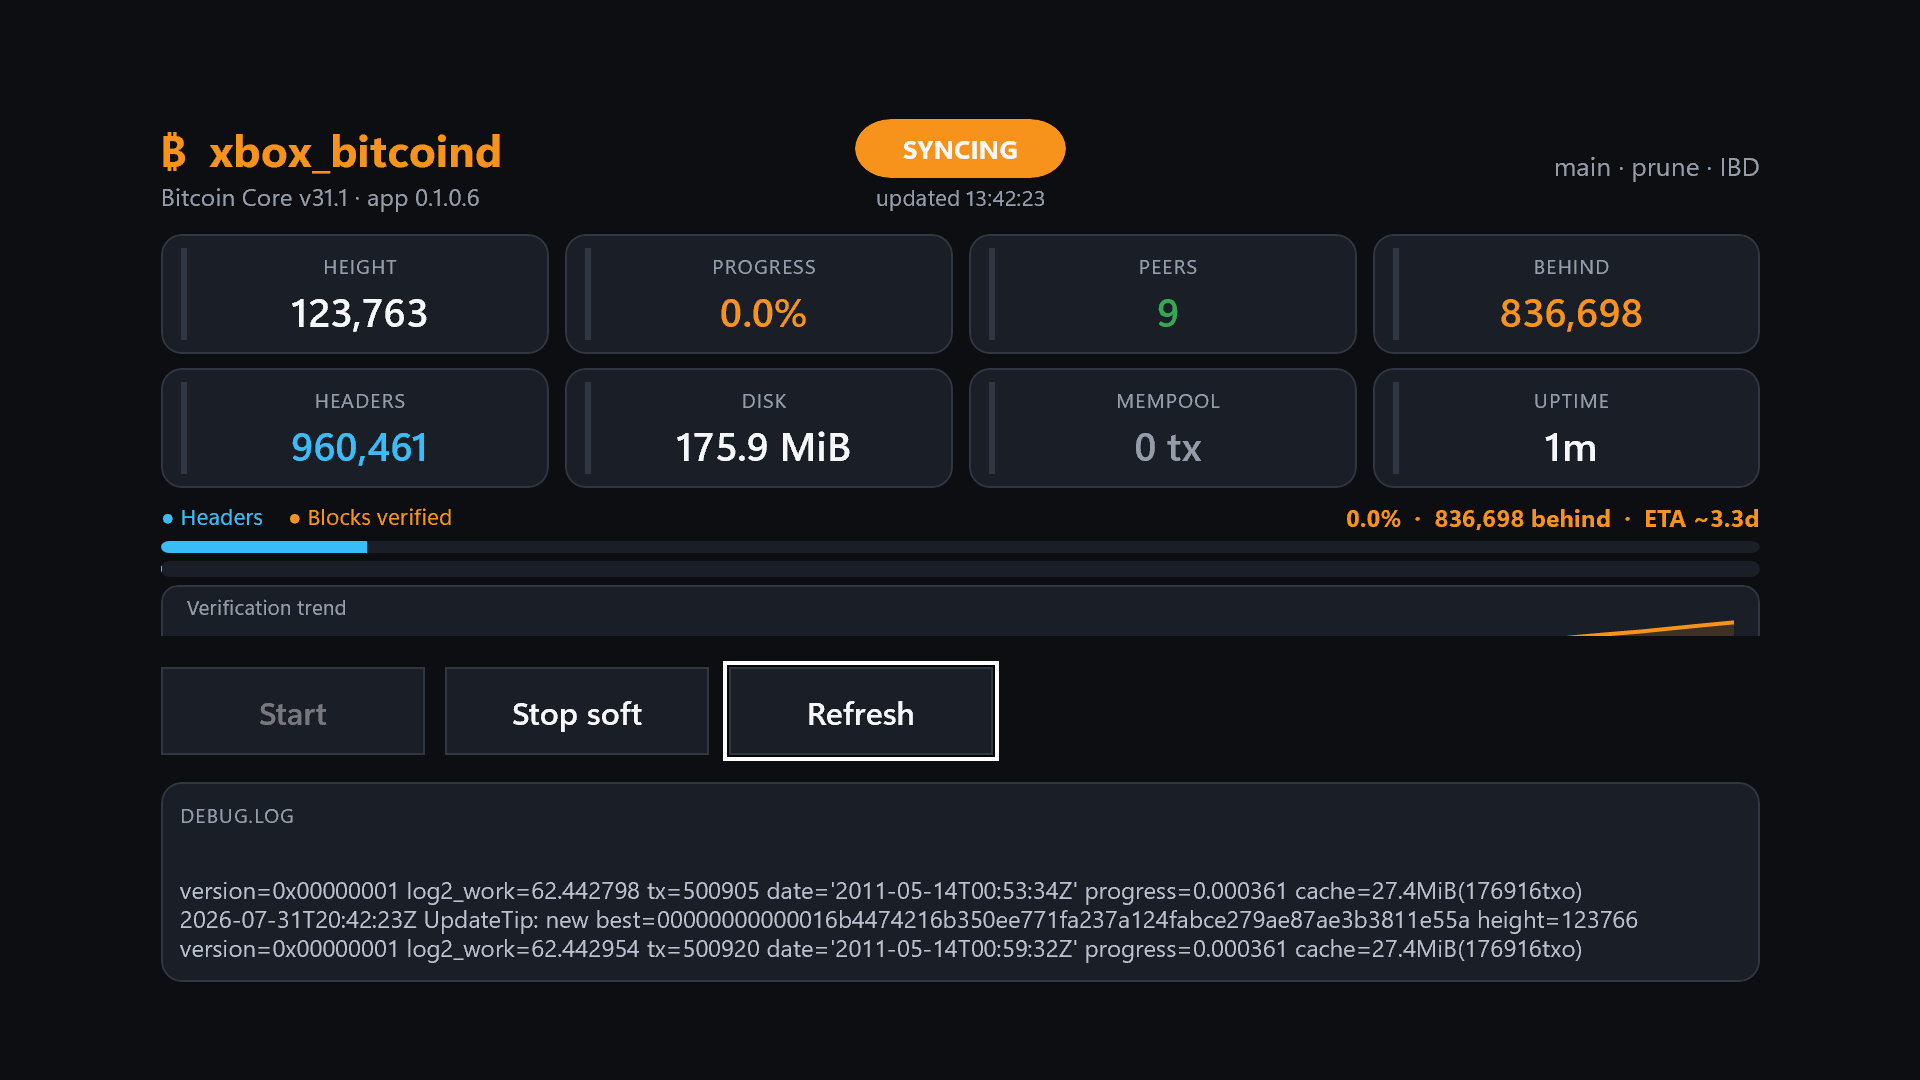
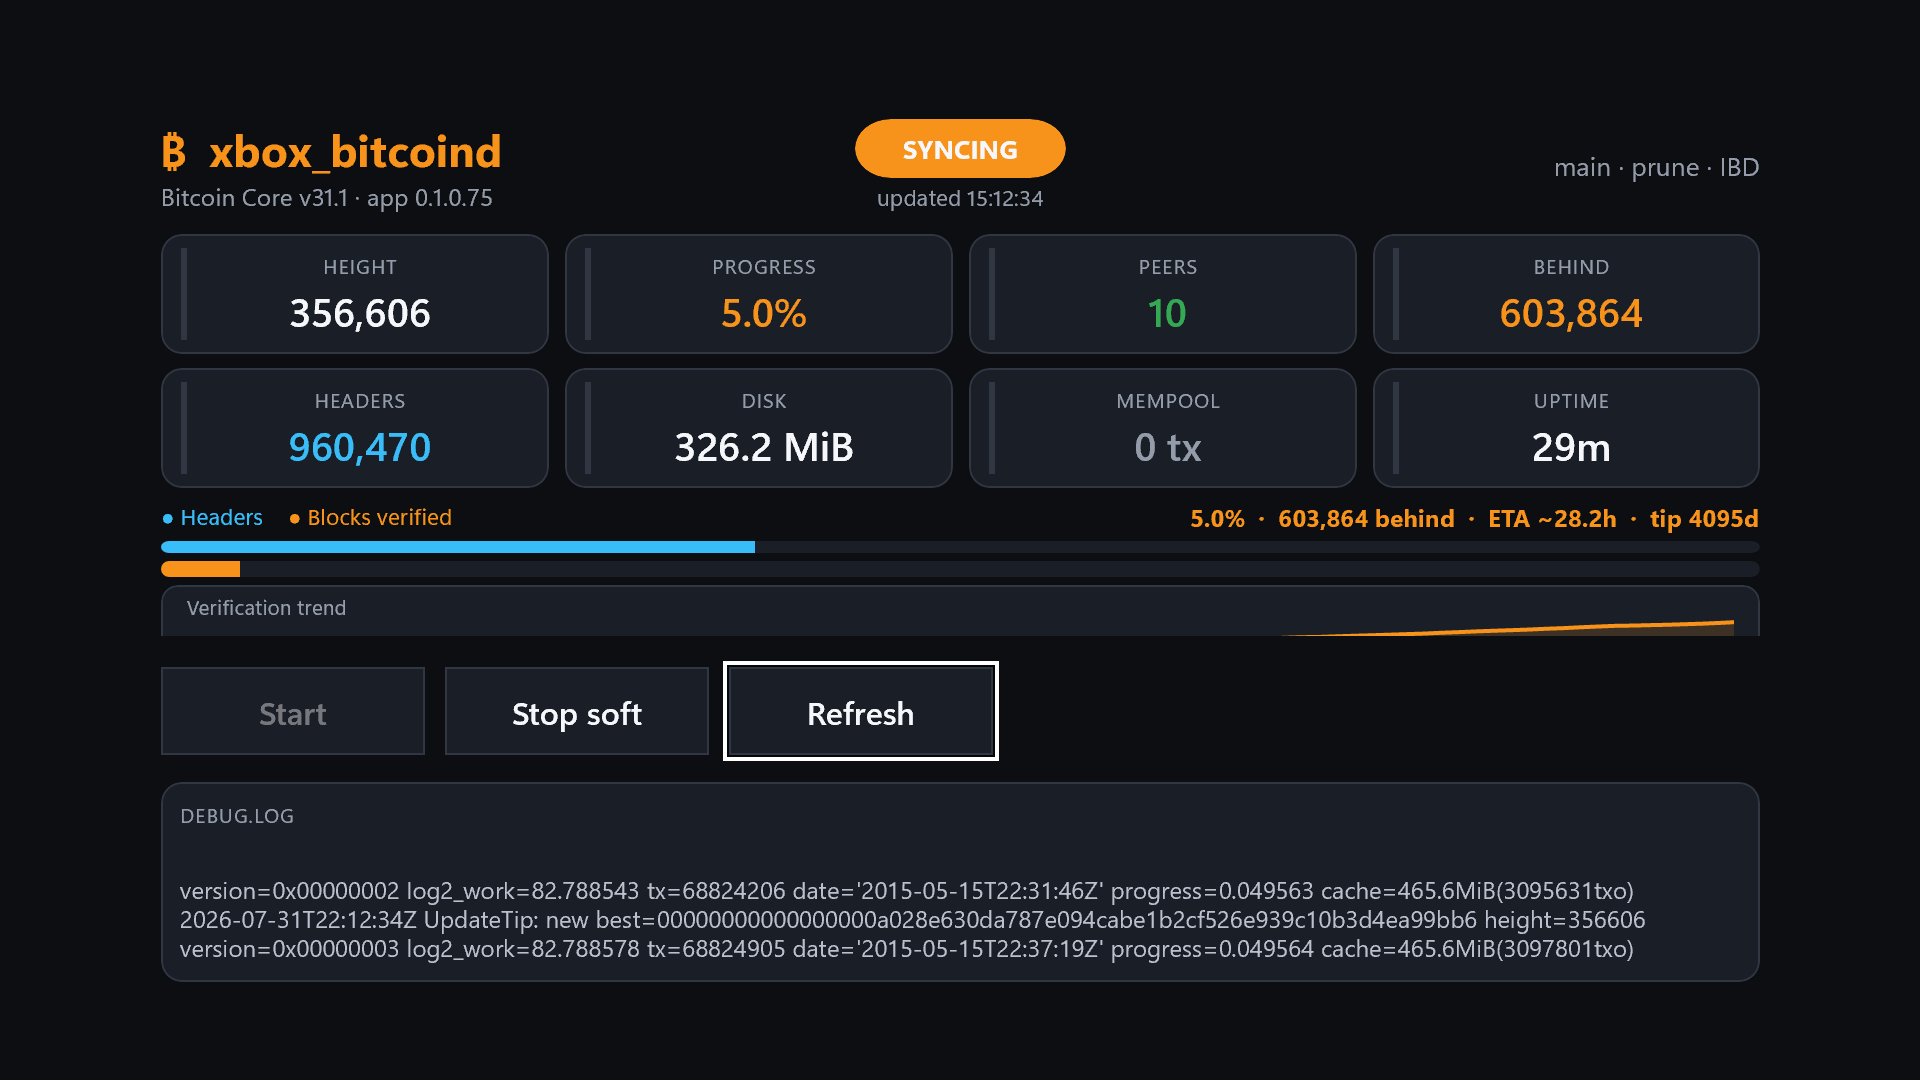
docs: close 0.1.0.75 reinstall checklist and refresh screenshot
Cert/VCLibs/MSIX verified, conf console kept, health green, live UI
capture at ~5% IBD. Mark reinstall complete on tracking.

diff --git a/docs/tracking.md b/docs/tracking.md
@@ -13,21 +13,35 @@ Update this file when gates move; use Issues for discussion and assignment.
 
 ---
 
-## Status snapshot (2026-07-31 night)
+## Status snapshot (2026-08-01)
 
 | Area | State |
 |------|--------|
 | Engineering v1 | **Complete** |
 | Architecture + UI | **Complete** (lifecycle SSOT, tip age, HEADERS/STALE) — [plan-core-uwp.md](plan-core-uwp.md) · [ui.md](ui.md) |
 | Git tag / Release | **[v0.1.1](https://github.com/gianlucamazza/xbox_bitcoind/releases/tag/v0.1.1)** (baseline); console ahead via CI MSIX |
-| Console package | **0.1.0.75** WithCore (CI `3959ae9` + resume) · re-set **App type → Game** after deploy |
+| Console package | **0.1.0.75** WithCore · reinstall **complete** (cert + VCLibs + MSIX + start) |
+| Game class | Console `DefaultUWPContentTypeToGame=true`; WS ~0.9–1.0 GiB mid-IBD — glance Dev Home if App type shows App |
 | Pin | Bitcoin Core **v31.1** |
-| UI on console | Core **v31.1 · app 0.1.0.75** — tip age, HEADERS/STALE, dual bars, spark, ETA, resume auto-restart |
-| Soft-stop | Tip conserved; mid-IBD deploy used DELETE after 300s wait ([#4](https://github.com/gianlucamazza/xbox_bitcoind/issues/4)); tip ~326k retained |
-| Mainnet IBD | **In progress** (~**326k**, progress ~**3.6%**) — leave focused; no further redeploy unless needed |
+| UI on console | **Live** Core **v31.1 · app 0.1.0.75** — tip age, dual bars, spark, ETA (screenshot refreshed) |
+| Soft-stop | Tip conserved across deploy; mid-IBD host wait sometimes DELETE after node already exited ([#4](https://github.com/gianlucamazza/xbox_bitcoind/issues/4)) |
+| Mainnet IBD | **In progress** (~**357k**, progress ~**5%**) — leave focused; no further redeploy |
 | 24h stable at tip | **Pending** IBD |
 | Soft-stop at tip | **Pending** tip |
 | Pre-Lightning | Blocked on IBD closure gates |
+
+### Reinstall checklist (0.1.0.75) — closed
+
+| Step | Status |
+|------|--------|
+| Soft-stop previous package | done (node `rc=0`; host may still DELETE) |
+| Install cert + VCLibs + MSIX | done |
+| Package identity | `…_0.1.0.75_…` only (package-gc keep=1) |
+| Probes 4/4 | done |
+| Conf profile | `console` kept (`dbcache=512`, `prune=550`) |
+| Auto-start node + IBD continue | tip advanced past pre-deploy height |
+| Health / timer | healthy · timer active |
+| Screenshot / UI verify | done (`docs/assets/screenshot-console.png`) |
 
 Verify live:
 
@@ -52,7 +66,7 @@ Full hygiene guide: [ops.md § Ops hygiene](ops.md#ops-hygiene--best-practices).
 | ops-ibd | Finish mainnet IBD | `v1-close-check.sh` `sync_near_tip` PASS · [#1](https://github.com/gianlucamazza/xbox_bitcoind/issues/1) |
 | ops-24h | ≥24h stable at tip | Hourly `ibd.jsonl` near tip · [#2](https://github.com/gianlucamazza/xbox_bitcoind/issues/2) |
 | ops-soft-tip | Soft-stop @ tip | `soft-stop-test.sh` + [persistence.md](persistence.md) · [#3](https://github.com/gianlucamazza/xbox_bitcoind/issues/3) |
-| ops-game | Confirm Dev Home **App type → Game** | Manual after each reinstall |
+| ops-game | Confirm Dev Home **App type → Game** | **Mostly done** — `DefaultUWPContentTypeToGame=true`; optional Dev Home glance |
 
 ### P1 — Quality / reliability
 
@@ -83,7 +97,7 @@ Wallet UI · Store · `listen=1` · CLN on-console · USB datadir UX
 
 | Issue | Title | Status |
 |-------|-------|--------|
-| [#1](https://github.com/gianlucamazza/xbox_bitcoind/issues/1) | Complete mainnet IBD (v1 close) | open — ~326k / ~3.6% post-wipe |
+| [#1](https://github.com/gianlucamazza/xbox_bitcoind/issues/1) | Complete mainnet IBD (v1 close) | open — ~357k / ~5% |
 | [#2](https://github.com/gianlucamazza/xbox_bitcoind/issues/2) | 24h stability at tip (v1 close) | open |
 | [#3](https://github.com/gianlucamazza/xbox_bitcoind/issues/3) | Soft-stop retest at tip (v1 close) | open |
 | [#4](https://github.com/gianlucamazza/xbox_bitcoind/issues/4) | Soft-stop → DELETE fallback | mitigated / field |
@@ -107,4 +121,4 @@ gh issue list --label v1-close
 
 ---
 
-*Last consolidated: 2026-07-31 night — console **0.1.0.75** (tip age/HEADERS/STALE); IBD ~326k; tip conserved across mid-IBD deploy.*
+*Last consolidated: 2026-08-01 — reinstall **0.1.0.75** complete; IBD ~357k / ~5%; leave focused.*

diff --git a/docs/console.md b/docs/console.md
@@ -13,9 +13,9 @@ Same **Xbox Series S** as [`xllama`](../../xllama/) (Dev Mode + Device Portal).
 | Device Portal | `https://192.168.1.44:11443` (DHCP — update if IP changes) |
 | Credentials | `~/.config/xllama/xbox-env` (see `scripts/env.sh`) |
 | Sibling | `GianlucaMazza.xllama_1.5.2.836_x64__pj67f1fcj4n14` |
-| This package | `GianlucaMazza.xboxbitcoind_0.1.0.75_x64__m0e4707sws2jw` (CI build of tip-age UI; above release **v0.1.1** / `0.1.0.6`) |
+| This package | `GianlucaMazza.xboxbitcoind_0.1.0.75_x64__m0e4707sws2jw` (CI tip-age UI; above release **v0.1.1** / `0.1.0.6`) |
 
-**Last full ops check:** 2026-07-31 night deploy CI MSIX **`0.1.0.75`** (tip age + HEADERS/STALE + resume). Soft-stop mid-IBD hit **DELETE after 300s**; tip conserved (~326k). VCLibs shipped next to MSIX. **Re-set App type → Game** after this install.
+**Last full ops check:** 2026-08-01 — reinstall **complete** for **`0.1.0.75`**: cert + VCLibs + MSIX, probes 4/4, conf console kept, health green, UI screenshot live (height ~357k / ~5%). Portal `DefaultUWPContentTypeToGame=true`. Soft-stop mid-IBD may still host-DELETE after clean node exit ([#4](https://github.com/gianlucamazza/xbox_bitcoind/issues/4)).
 
 **Version labels:** Bitcoin Core pin is **v31.1**; `0.1.0.75` is the **MSIX app** revision only.
 

diff --git a/README.md b/README.md
@@ -15,9 +15,9 @@ Companion project on the same console: [xllama](https://github.com/gianlucamazza
 [![GitHub release](https://img.shields.io/github/v/release/gianlucamazza/xbox_bitcoind)](https://github.com/gianlucamazza/xbox_bitcoind/releases/latest)
 [![License: MIT](https://img.shields.io/badge/License-MIT-yellow.svg)](LICENSE)
 
-![Status dashboard on Xbox Series S (package 0.1.0.6 / release v0.1.1)](docs/assets/screenshot-console.png)
+![Status dashboard on Xbox Series S (package 0.1.0.75)](docs/assets/screenshot-console.png)
 
-*Live capture, Series S Dev Mode — package **0.1.0.6** (Release **[v0.1.1](https://github.com/gianlucamazza/xbox_bitcoind/releases/tag/v0.1.1)**), mid-IBD after fresh datadir. Subtitle **Bitcoin Core v31.1 · app 0.1.0.6**. Ops: [docs/tracking.md](docs/tracking.md).*
+*Live capture, Series S Dev Mode — package **0.1.0.75** (tip-age UI; baseline release **[v0.1.1](https://github.com/gianlucamazza/xbox_bitcoind/releases/tag/v0.1.1)**), mid-IBD ~5%. Subtitle **Bitcoin Core v31.1 · app 0.1.0.75**. Ops: [docs/tracking.md](docs/tracking.md).*
 
 ## Features
 

diff --git a/docs/README.md b/docs/README.md
@@ -11,10 +11,10 @@ Snapshot (see also [ops.md](ops.md) · [tracking.md](tracking.md)):
 | | |
 |--|--|
 | Pin | Bitcoin Core **v31.1** (not the MSIX revision) |
-| Console package | `GianlucaMazza.xboxbitcoind` **0.1.0.6** (WithCore, release **v0.1.1**, **Game**) |
-| Screenshot | [assets/screenshot-console.png](assets/screenshot-console.png) (live 0.1.0.6) |
+| Console package | `GianlucaMazza.xboxbitcoind` **0.1.0.75** (WithCore, tip-age UI) |
+| Screenshot | [assets/screenshot-console.png](assets/screenshot-console.png) (live 0.1.0.75) |
 | Datadir | `LocalState\bitcoin` |
-| IBD | Mainnet (restarted after v0.1.1 deploy) — [tracking.md](tracking.md) |
+| IBD | Mainnet ~5% — [tracking.md](tracking.md) |
 | Version labels | **Core pin** vs **app package** — see [ui.md](ui.md) · `generate-version-header.py` |
 
 ---

diff --git a/docs/ui.md b/docs/ui.md
@@ -4,7 +4,7 @@ Controller-first **10-foot** status UI for Series S Dev Mode (programmatic XAML)
 
 ![Status dashboard on console](assets/screenshot-console.png)
 
-*Live capture, package **0.1.0.6** (release **v0.1.1**), mid-IBD: Core **v31.1 · app** subtitle, primary/secondary KPIs, dual bars, sparkline, log. Ops: [tracking.md](tracking.md).*
+*Live capture, package **0.1.0.75**, mid-IBD (~5%): Core **v31.1 · app 0.1.0.75** subtitle, tip age, primary/secondary KPIs, dual bars, sparkline, log. Ops: [tracking.md](tracking.md).*
 
 ## Best practices (10-foot / TV)
 

diff --git a/CHANGELOG.md b/CHANGELOG.md
@@ -31,6 +31,7 @@ and this project aims to follow [Semantic Versioning](https://semver.org/) for
 - Docs screenshot refreshed for package **0.1.0.6** / release **v0.1.1**
 - Tracking/roadmap: architecture+UI complete; console package **0.1.0.75**
 - `release.yml`: compute MSIX revision offset in shell (GHA expressions have no `+`)
+- Console screenshot + docs for reinstall complete (**0.1.0.75**, ~5% IBD)
 
 ## [0.1.1] — 2026-07-31
 
